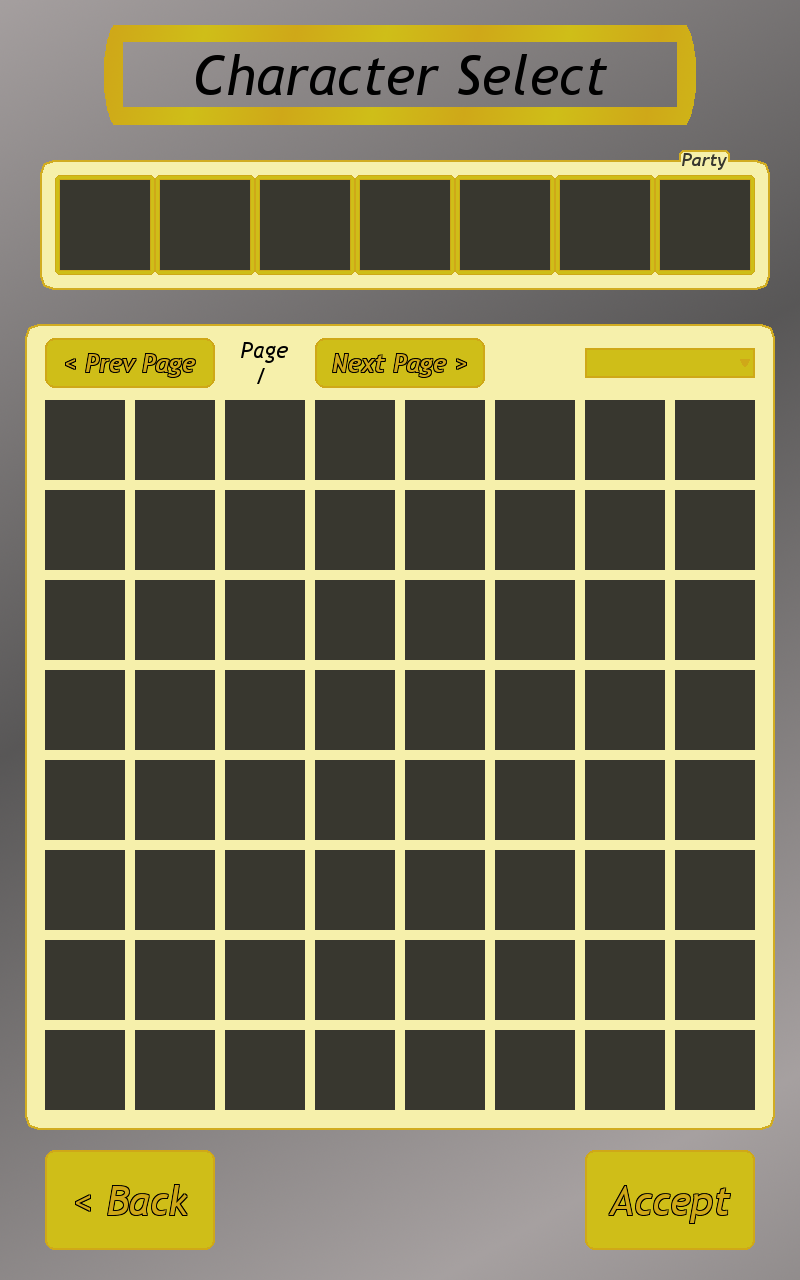
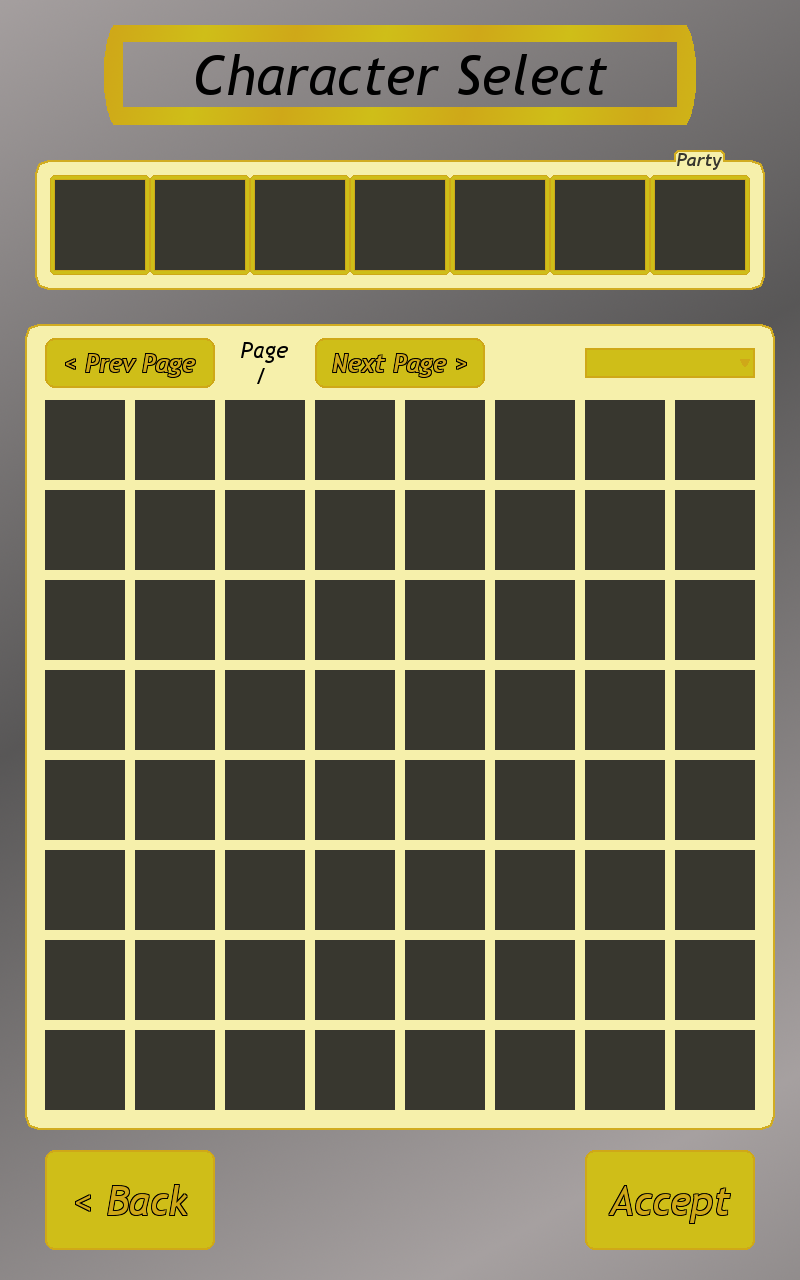
Fix for PartySelectScreen Party being off center

diff --git a/app/src/main/java/ultrapoulet/wifeygame/PartySelectScreen.java b/app/src/main/java/ultrapoulet/wifeygame/PartySelectScreen.java
@@ -116,8 +116,8 @@ public class PartySelectScreen extends Screen {
     private static final int CHAR_HIGHLIGHT_BASE_Y = 397;
     private static final int CHAR_HIGHLIGHT_OFFSET = 90;
 
-    private static final int PARTY_IMAGE_BASE_LEFT_X = 60;
-    private static final int PARTY_IMAGE_BASE_RIGHT_X = 150;
+    private static final int PARTY_IMAGE_BASE_LEFT_X = 55;
+    private static final int PARTY_IMAGE_BASE_RIGHT_X = 145;
     private static final int PARTY_IMAGE_OFFSET_X = 100;
     private static final int PARTY_IMAGE_TOP_Y = 180;
     private static final int PARTY_IMAGE_BOT_Y = 270;
